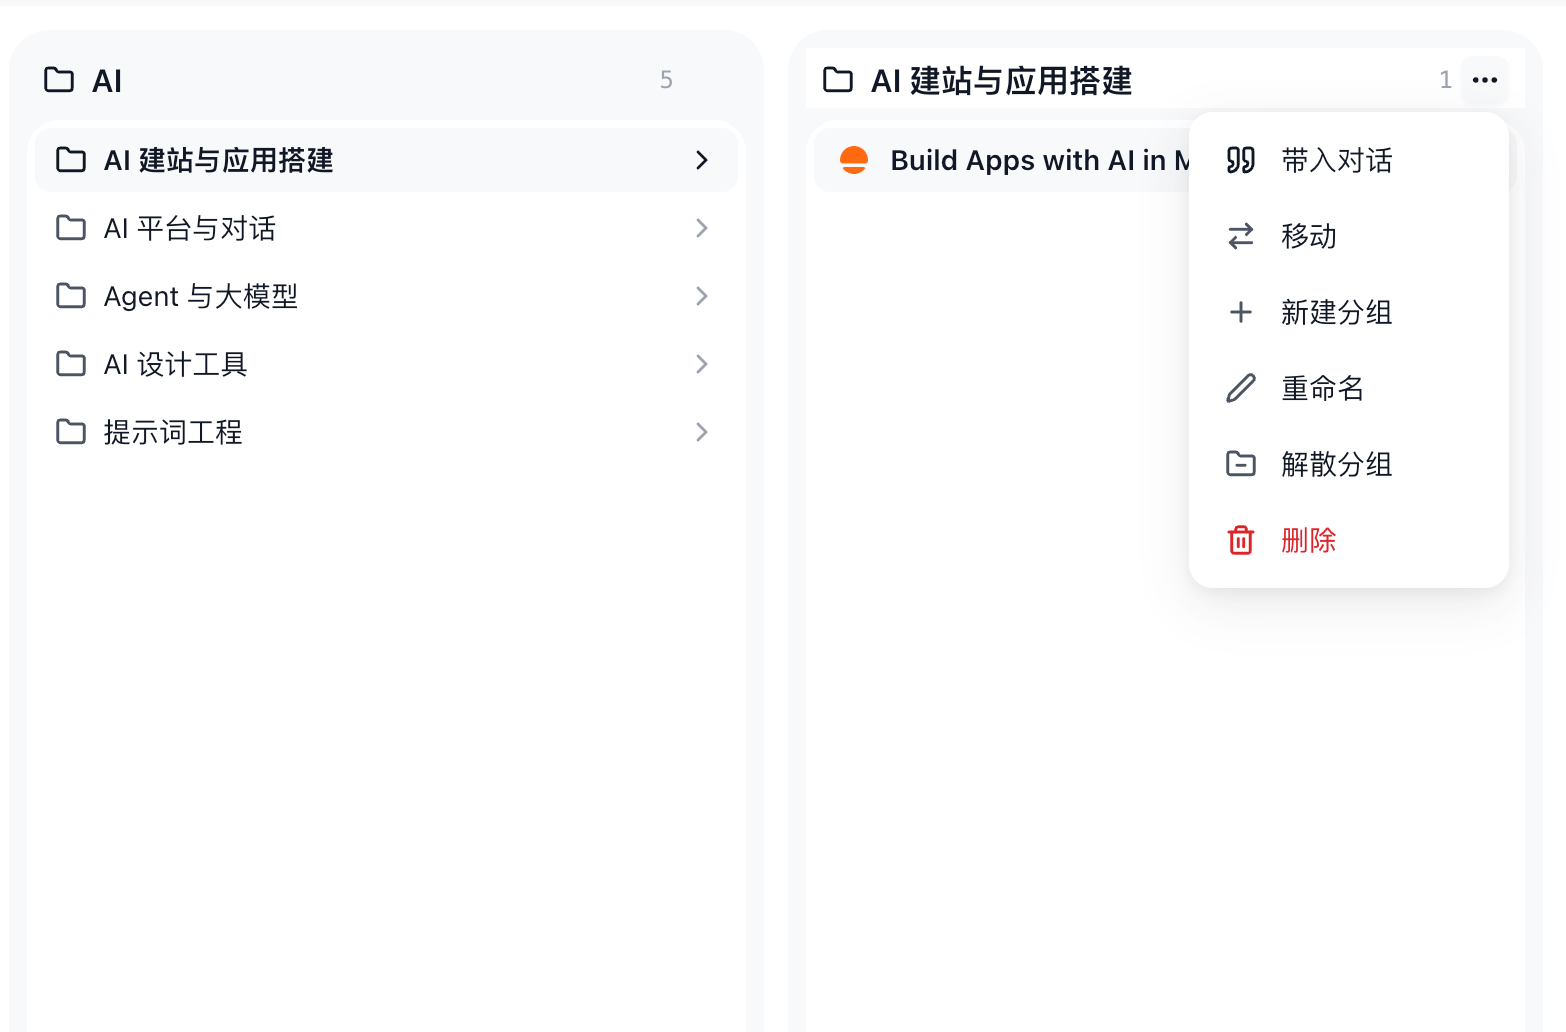
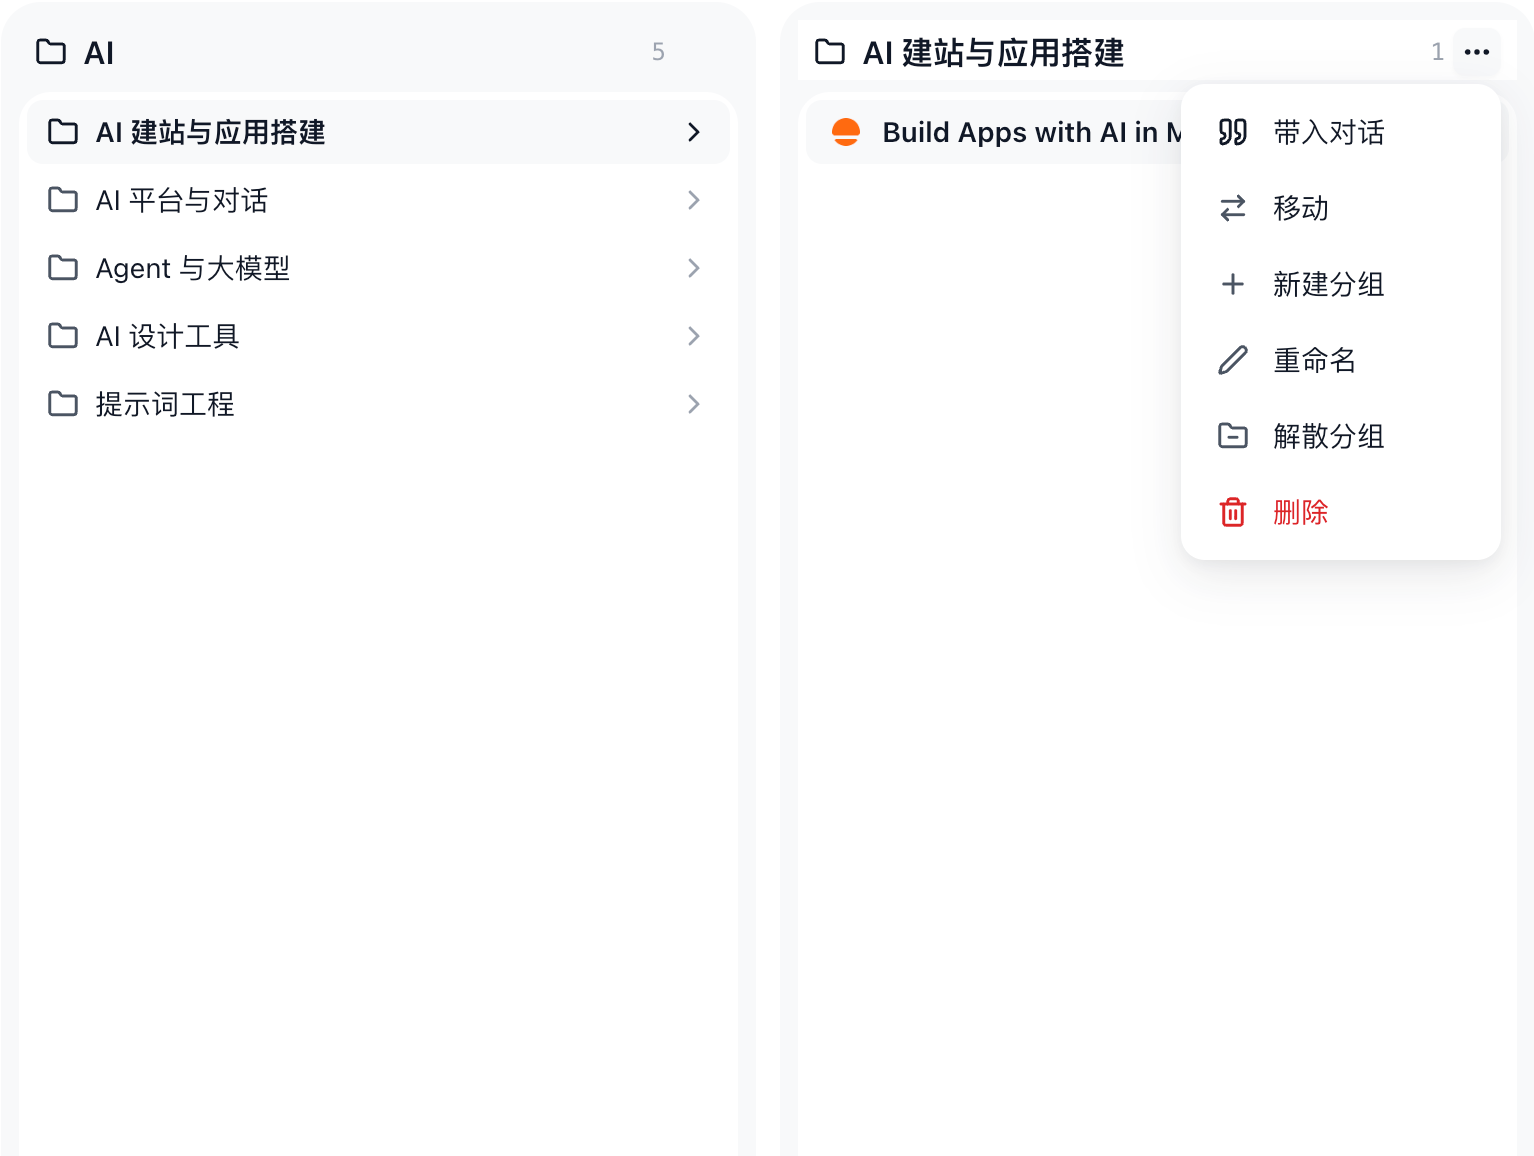
作品集：替换分组菜单截图并恢复圆角描边轻投影

diff --git a/src/app/cases/components/YeHomePreview.tsx b/src/app/cases/components/YeHomePreview.tsx
@@ -75,7 +75,7 @@ export function YeHomePreview() {
     <figure className="workbench-panels ye-home-details" aria-label="书签详情与页签收藏操作局部展示">
       <div className="ye-home-left-stack">
         <div className="ye-bookmark-detail"><img src={`${import.meta.env.BASE_URL}images/ye/bookmark-detail.webp`} alt="书签详情展示网页名称、网址与收藏时间" width="732" height="768" loading="lazy" decoding="async" /></div>
-        <div className="ye-folder-actions-detail"><img src={`${import.meta.env.BASE_URL}images/ye/bookmark-folder-actions.webp`} alt="书签分栏目录与分组菜单，支持带入对话、移动、新建分组、重命名、解散分组和删除" width="1566" height="1032" loading="lazy" decoding="async" /></div>
+        <div className="ye-folder-actions-detail"><img src={`${import.meta.env.BASE_URL}images/ye/bookmark-folder-actions.webp`} alt="书签分栏目录与分组菜单，支持带入对话、移动、新建分组、重命名、解散分组和删除" width="1534" height="1156" loading="lazy" decoding="async" /></div>
       </div>
       <div className="ye-collect-detail"><img src={`${import.meta.env.BASE_URL}images/ye/tab-collect-full.webp`} alt="页签菜单中的收藏操作，可选择分组或让 AI 建议" width="1496" height="1314" loading="lazy" decoding="async" /></div>
     </figure>

diff --git a/src/app/cases/ye.css b/src/app/cases/ye.css
@@ -214,7 +214,7 @@
 .ye-home-left-stack > div { min-width: 0; aspect-ratio: 1.5; overflow: hidden; background: var(--color-case-plate); border-radius: var(--space-6); padding: var(--rhythm-3); }
 .ye-home-details .ye-bookmark-detail { display: grid; place-items: center; }
 .ye-home-left-stack > .ye-folder-actions-detail { display: flex; align-items: flex-start; justify-content: center; padding: var(--rhythm-4) 0 0; }
-.ye-case .ye-home-details .ye-folder-actions-detail img { width: 95%; max-width: none; flex-shrink: 0; margin: 0; transform: translateX(0.45%); clip-path: inset(0 1.5% 0 0.6% round var(--rhythm-3) var(--rhythm-3) 0 0); border-radius: var(--rhythm-3) var(--rhythm-3) 0 0; outline: 0; box-shadow: var(--ye-image-shadow); }
+.ye-case .ye-home-details .ye-folder-actions-detail img { width: 95%; max-width: none; flex-shrink: 0; margin: 0; border-radius: var(--rhythm-3); outline: calc(3 * var(--border-width)) solid var(--ye-image-border); box-shadow: var(--ye-image-shadow); }
 .ye-home-details .ye-bookmark-detail::before { content: none; }
 .ye-home-details .ye-bookmark-detail img { grid-area: 1 / 1; width: 66%; }
 .ye-home-details .ye-collect-detail img { border-radius: var(--space-4); box-shadow: var(--ye-image-shadow); }
